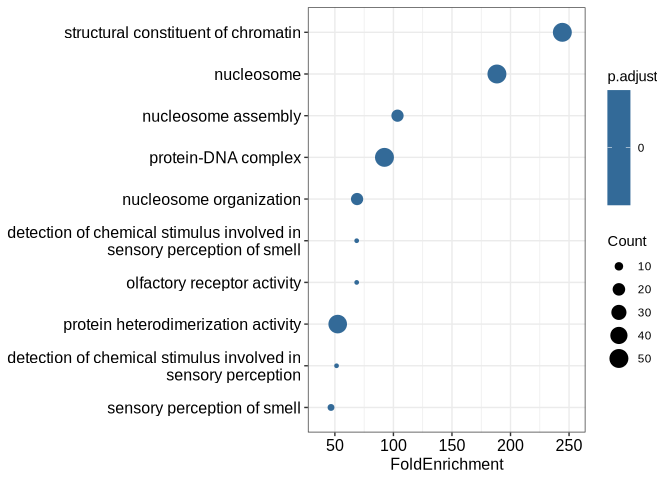
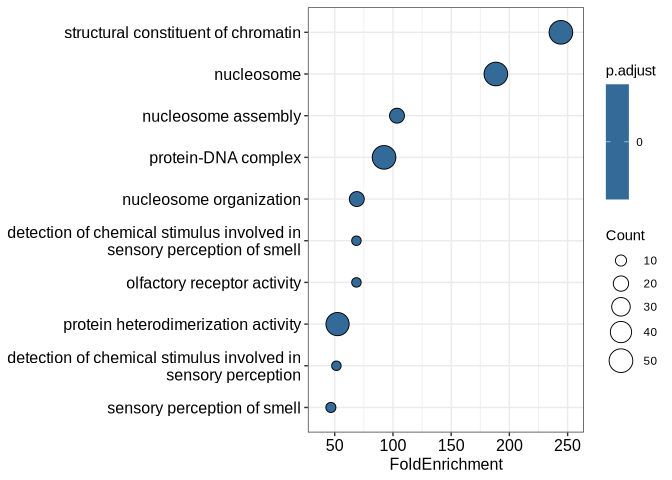
Minor changes to the example dataset
Remove columns `centroid1` and `centroid2`, rename `loopID` to `interactionID`.

diff --git a/README.md b/README.md
@@ -37,30 +37,30 @@ library(GOaGO)
 
 data("genePairsGM12878")
 head(genePairsGM12878)
-#>    loopID chrom1    start1      end1 centroid1 geneID1      tss1 strand1 chrom2
-#>     <int> <char>     <int>     <int>     <int>  <char>     <int>  <char> <char>
-#> 1:      3  chr10 101190000 101195000 101195833    2805 101190530       -  chr10
-#> 2:      7  chr10 102100000 102110000 102100714    6319 102106772       +  chr10
-#> 3:      7  chr10 102100000 102110000 102100714    6319 102106772       +  chr10
-#> 4:     10  chr10 102810000 102815000 102803750   81621 102820999       +  chr10
-#> 5:     19  chr10 103600000 103605000 103598750   30819 103603677       -  chr10
-#> 6:     23  chr10 103985000 103990000 103987500   83401 103986143       +  chr10
-#>       start2      end2 centroid2 geneID2      tss2 strand2
-#>        <int>     <int>     <int>  <char>     <int>  <char>
-#> 1: 101370000 101375000 101373333   81894 101372701       -
-#> 2: 102270000 102280000 102277857   25956 102276754       -
-#> 3: 102270000 102280000 102277857   25956 102279595       -
-#> 4: 102900000 102905000 102903750    3195 102891061       +
-#> 5: 103830000 103835000 103831250   79803 103825124       +
-#> 6: 104160000 104165000 104162500    5662 104169041       -
+#>    interactionID chrom1    start1      end1 geneID1      tss1 strand1 chrom2
+#>            <int> <char>     <int>     <int>  <char>     <int>  <char> <char>
+#> 1:             3  chr10 101190001 101195000    2805 101190530       -  chr10
+#> 2:             7  chr10 102100001 102110000    6319 102106772       +  chr10
+#> 3:             7  chr10 102100001 102110000    6319 102106772       +  chr10
+#> 4:            10  chr10 102810001 102815000   81621 102820999       +  chr10
+#> 5:            19  chr10 103600001 103605000   30819 103603677       -  chr10
+#> 6:            23  chr10 103985001 103990000   83401 103986143       +  chr10
+#>       start2      end2 geneID2      tss2 strand2
+#>        <int>     <int>  <char>     <int>  <char>
+#> 1: 101370001 101375000   81894 101372701       -
+#> 2: 102270001 102280000   25956 102276754       -
+#> 3: 102270001 102280000   25956 102279595       -
+#> 4: 102900001 102905000    3195 102891061       +
+#> 5: 103830001 103835000   79803 103825124       +
+#> 6: 104160001 104165000    5662 104169041       -
 ```
 
 The column names ending with `1` and `2` refer to the first and second
 loop anchors, respectively. The essential columns are: `geneID1` and
-`geneID2` (gene identifiers from a database of choice) and `loopID`
-(identifier of a chromatin loop). As some loop anchors overlapped
-multiple Transcription Start Sites, possibly of many genes, for these
-loops the dataset contains all combinations.
+`geneID2` (gene identifiers from a database of choice) and
+`interactionID` (identifier of a chromatin loop). As some loop anchors
+overlapped multiple Transcription Start Sites, possibly of many genes,
+for these loops the dataset contains all combinations.
 
 When running GO-a-GO, we should specify that gene identifiers are from
 the Entrez database, and use the Bioconductor `org.Hs.eg.db` package as
